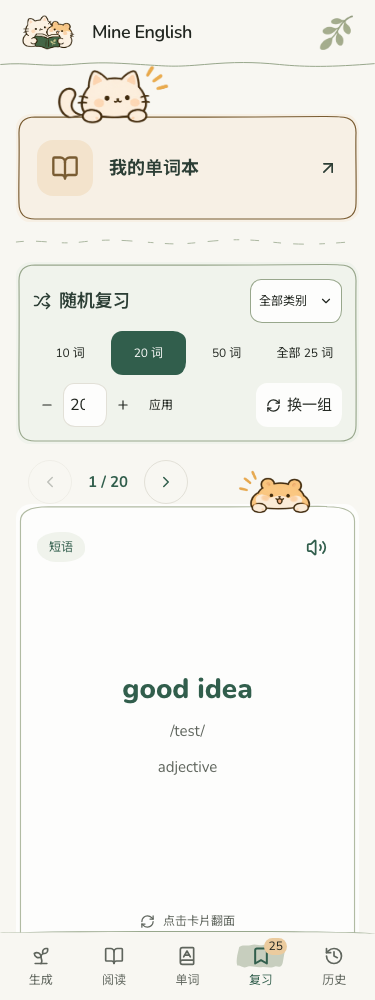
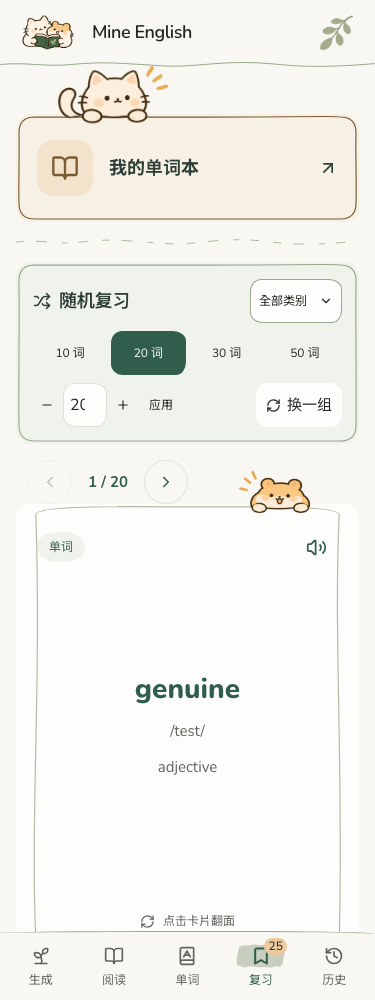
Set random review presets to ten twenty thirty and fifty words

diff --git a/src/views/ReviewView.tsx b/src/views/ReviewView.tsx
@@ -89,7 +89,7 @@ const RandomReviewView: React.FC<ReviewViewProps & {key?:string;collectionCount:
     <section className="random-review" aria-label="随机复习"><HandOutline/>
       <div className="random-review__controls"><Heading ref={scopeHeading} tabIndex={scopeLabel ? -1 : undefined} className="type-section font-semibold"><Shuffle size={18} aria-hidden="true"/>随机复习</Heading>
         <ReviewCategorySelect value={category} categories={categories} disabled={detailsBusy||!collectionCount} onChange={onCategoryChange}/>
-        <div className="random-review__presets" role="group" aria-label="随机复习数量">{[10,20,50].map(count=><button type="button" key={count} aria-pressed={selection.count===count} disabled={detailsBusy||!allVocabularies.length} onClick={()=>choose(count)}>{count} 词</button>)}<button type="button" aria-pressed={selection.count===null} disabled={detailsBusy||!allVocabularies.length} onClick={()=>choose(null)}>全部 {allVocabularies.length} 词</button></div>
+        <div className="random-review__presets" role="group" aria-label="随机复习数量">{[10,20,30,50].map(count=><button type="button" key={count} aria-pressed={selection.count===count} disabled={detailsBusy||!allVocabularies.length} onClick={()=>choose(count)}>{count} 词</button>)}</div>
         <form className="random-review__custom" onSubmit={event=>{event.preventDefault();choose(Math.min(allVocabularies.length,Math.max(1,Number(customCount)||1)));}}><button type="button" aria-label="减少随机复习数量" disabled={detailsBusy||!allVocabularies.length||Number(customCount)<=1} onClick={()=>setCustomCount(String(Math.max(1,(Number(customCount)||1)-1)))}><Minus size={14}/></button><input type="number" inputMode="numeric" aria-label="自定义随机复习数量" min={1} max={Math.max(1,allVocabularies.length)} value={customCount} disabled={detailsBusy||!allVocabularies.length} onChange={event=>setCustomCount(event.target.value)}/><span>词</span><button type="button" aria-label="增加随机复习数量" disabled={detailsBusy||!allVocabularies.length||Number(customCount)>=allVocabularies.length} onClick={()=>setCustomCount(String(Math.min(allVocabularies.length,(Number(customCount)||0)+1)))}><Plus size={14}/></button><button type="submit" disabled={detailsBusy||!allVocabularies.length||!customCount}>应用</button></form>
         <button className="random-review__reshuffle" type="button" disabled={detailsBusy||!allVocabularies.length} onClick={()=>choose(selection.count)}><RefreshCw size={15}/>换一组</button>
       </div>

diff --git a/src/utils/vocabularyScope.test.ts b/src/utils/vocabularyScope.test.ts
@@ -34,7 +34,7 @@ test('wordbook shows all saved degrees, distinguishes passage addition from coll
 
 test('review count includes vocabulary from every degree', () => {
   const html = renderToStaticMarkup(React.createElement(ReviewView, { allVocabularies: entries, onRate: noop, onRefresh: noop, }));
-  assert.match(html, /全部 2 词/);
+  assert.match(html, /role="status"[^>]*>1 \/ 2</);
   assert.doesNotMatch(html, /当前模式：|单词本共/);
   assert.doesNotMatch(html, /Word 1|Reveal Details/);
 });

diff --git a/DESIGN.md b/DESIGN.md
@@ -301,7 +301,7 @@ The history vocabulary-task heading sits outside the outline, matching the histo
 
 ### Compact review and detail states (2026-11-10)
 
-Below 640px, random review filtering uses three compact rows: heading/category; four quantity presets; custom quantity/reshuffle. The custom-count group is a no-wrap flex row with 2px gaps: minus/plus hug their symbols at 28px wide, input stays 44px, and Apply hugs its label with a 44px minimum width. All retain 44px click height and the existing font. This brings “应用” closer to the count. Pagination is a separate centered row outside the filter outline, between filtering and the flashcard. Keep original type and palette. Every button/input retains a 44px touch height; hide only the redundant standalone “词” unit on phones. The compact custom group and reshuffle also fit side by side at 320px; never wrap its label or reduce fonts. Reshuffle hugs its icon and label with balanced 10px horizontal padding, centered content and end alignment, rather than stretching to the grid column. Desktop/tablet review controls retain their layout. Remove the review-mode explanatory sentence and wordbook-entry description.
+Below 640px, random review filtering uses three compact rows: heading/category; four quantity presets (10, 20, 30, 50 words); custom quantity/reshuffle. The custom-count group is a no-wrap flex row with 2px gaps: minus/plus hug their symbols at 28px wide, input stays 44px, and Apply hugs its label with a 44px minimum width. All retain 44px click height and the existing font. This brings “应用” closer to the count. Pagination is a separate centered row outside the filter outline, between filtering and the flashcard. Keep original type and palette. Every button/input retains a 44px touch height; hide only the redundant standalone “词” unit on phones. The compact custom group and reshuffle also fit side by side at 320px; never wrap its label or reduce fonts. Reshuffle hugs its icon and label with balanced 10px horizontal padding, centered content and end alignment, rather than stretching to the grid column. Desktop/tablet review controls retain their layout. Remove the review-mode explanatory sentence and wordbook-entry description.
 
 All compact learning empty states stack the official hamster above centered copy. Do not replace the supplied image, add knowledge or change failure/not-applicable distinctions. Preview-save advice uses `--type-meta` in italic. Inflections have a stable presentation order: noun plural/singular, verb singular, past, past participle, present participle/gerund, comparative/superlative, base/infinitive; custom labels follow, in their saved order. Sort a copy, never stored user data.
 

diff --git a/docs/review-module-layout-report.md b/docs/review-module-layout-report.md
@@ -5,6 +5,7 @@
 - 翻页控件移出筛选框，放在筛选框与单词卡片之间。
 - 仓鼠保持原尺寸（桌面/平板 208px、手机 160px），继续粘在卡片上沿，正反面均保留；整张卡片上移，使仓鼠大致与翻页控件同排。
 - 手机翻页控件靠左避让，360–639px 再右移 12px；小平板适度偏左。按钮和仓鼠可见像素没有重叠。
+- 四个预设为 10、20、30、50 词，替换原来的 50/全部；不足数量时仍按实际词数抽取，自定义和旧会话兼容保留。
 - 手机数量组使用 2px 小间隙，加减按钮贴合符号收为 28px 宽，输入框 44px，应用按文字宽度（至少 44px）。保留原字号和 44px 点击高度；「换一组」贴合内容宽度并居中。320px 也能同排显示，不挤压换行。
 
 修改：`LearningArt.tsx`（可复用虚线）、`PracticeHubView.tsx`（模块分隔）、`ReviewView.tsx`（外置翻页）、`handDrawn.css`、`DESIGN.md`。另修正 `vocabularyDetails.ts` 排序工具的返回类型推断，不改变排序行为或数据。
